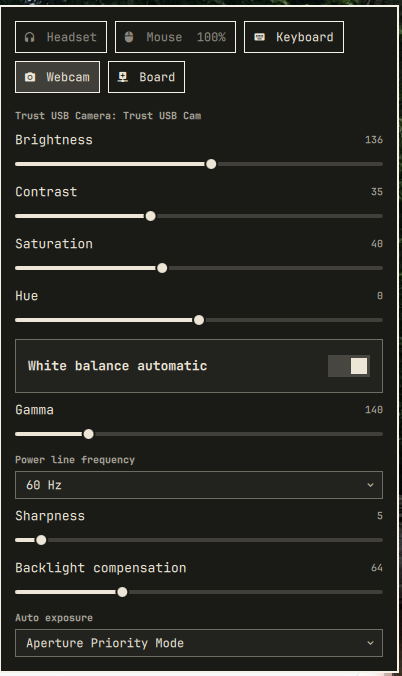
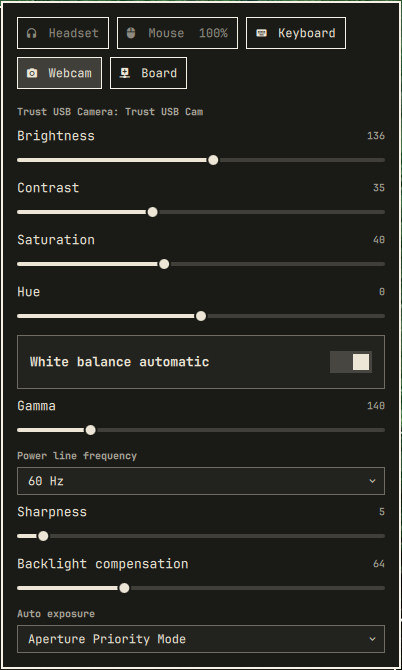
Drop private-plugin references and add screenshots
The README described the tab strip as being 'in the style of the mail and
teslamate widgets', which means nothing to anyone outside my own bar. Same for
a code comment referring to the widget this replaced.

Adds a Screenshots section: the bar slot, and the headset, mouse and keyboard
tabs, each cropped to the card so no desktop content is included. The webcam
tab doubles as the root preview rather than being duplicated.

Claude-Session: https://claude.ai/code/session_011BGyPwMBEULjHkptjZGnpB

diff --git a/Panel.qml b/Panel.qml
@@ -32,7 +32,7 @@ Panel {
   readonly property int lowPct: Math.max(0, parseInt(setting("lowPct", 15)) || 15)
   readonly property bool showPercentage: setting("showPercentage", true) === true
   // "summary" keeps one fixed slot; "pills" gives each battery-bearing device
-  // its own, the way the old devicebattery widget did.
+  // its own.
   readonly property string barMode: String(setting("barMode", "summary"))
 
   // ---- live state ----
@@ -156,6 +156,7 @@ Panel {
 
     // Pills: the widget glyph always first, so the click target stays put even
     // when every device is asleep, then one slot per reporting battery.
+    // Wider than summary, and it changes width as devices wake and sleep.
     WidgetButton {
       bar: root.bar
       visible: root.barMode === "pills"

diff --git a/README.md b/README.md
@@ -24,14 +24,34 @@ v4l2-ctl --list-ctrls    →  ┘
 | Anything OpenRGB sees | `openrgb` | mode, colour |
 | Webcams | `v4l2-ctl` | brightness, contrast, white balance, exposure, power-line frequency |
 
-The panel is tabbed, one tab per device, in the style of the mail and teslamate
-widgets: a glyph, a short kind name ("Mouse", not the product string), and the
-battery where there is one. A device that cannot report right now still gets a
-tab, dimmed.
+The panel is tabbed, one tab per device: a glyph, a short kind name ("Mouse",
+not the product string), and the battery where there is one. A device that
+cannot report right now still gets a tab, dimmed.
 
 Only what a device really has appears. A headset without lights shows no light
 switch; a mouse whose dongle exposes no lighting says so instead of offering a
 control that does nothing.
+
+## Screenshots
+
+One slot in the bar, whatever `barMode` you pick:
+
+![The omaperi widget in the Omarchy bar](docs/screenshots/bar.png)
+
+One tab per device, each showing only the controls that device really has:
+
+| Headset | Mouse | Keyboard |
+|---|---|---|
+| ![Headset tab](docs/screenshots/headset.png) | ![Mouse tab](docs/screenshots/mouse.png) | ![Keyboard tab](docs/screenshots/keyboard.png) |
+
+The headset is powered off and says so instead of offering controls that would
+do nothing; the mouse reports that OpenRazer exposes no lighting through its
+dongle; the keyboard's single OpenRGB mode is shown as a value rather than a
+dropdown pretending to be a choice.
+
+A webcam, whose ten V4L2 controls are read straight off the device:
+
+![Webcam tab](preview.png)
 
 ## Install
 
